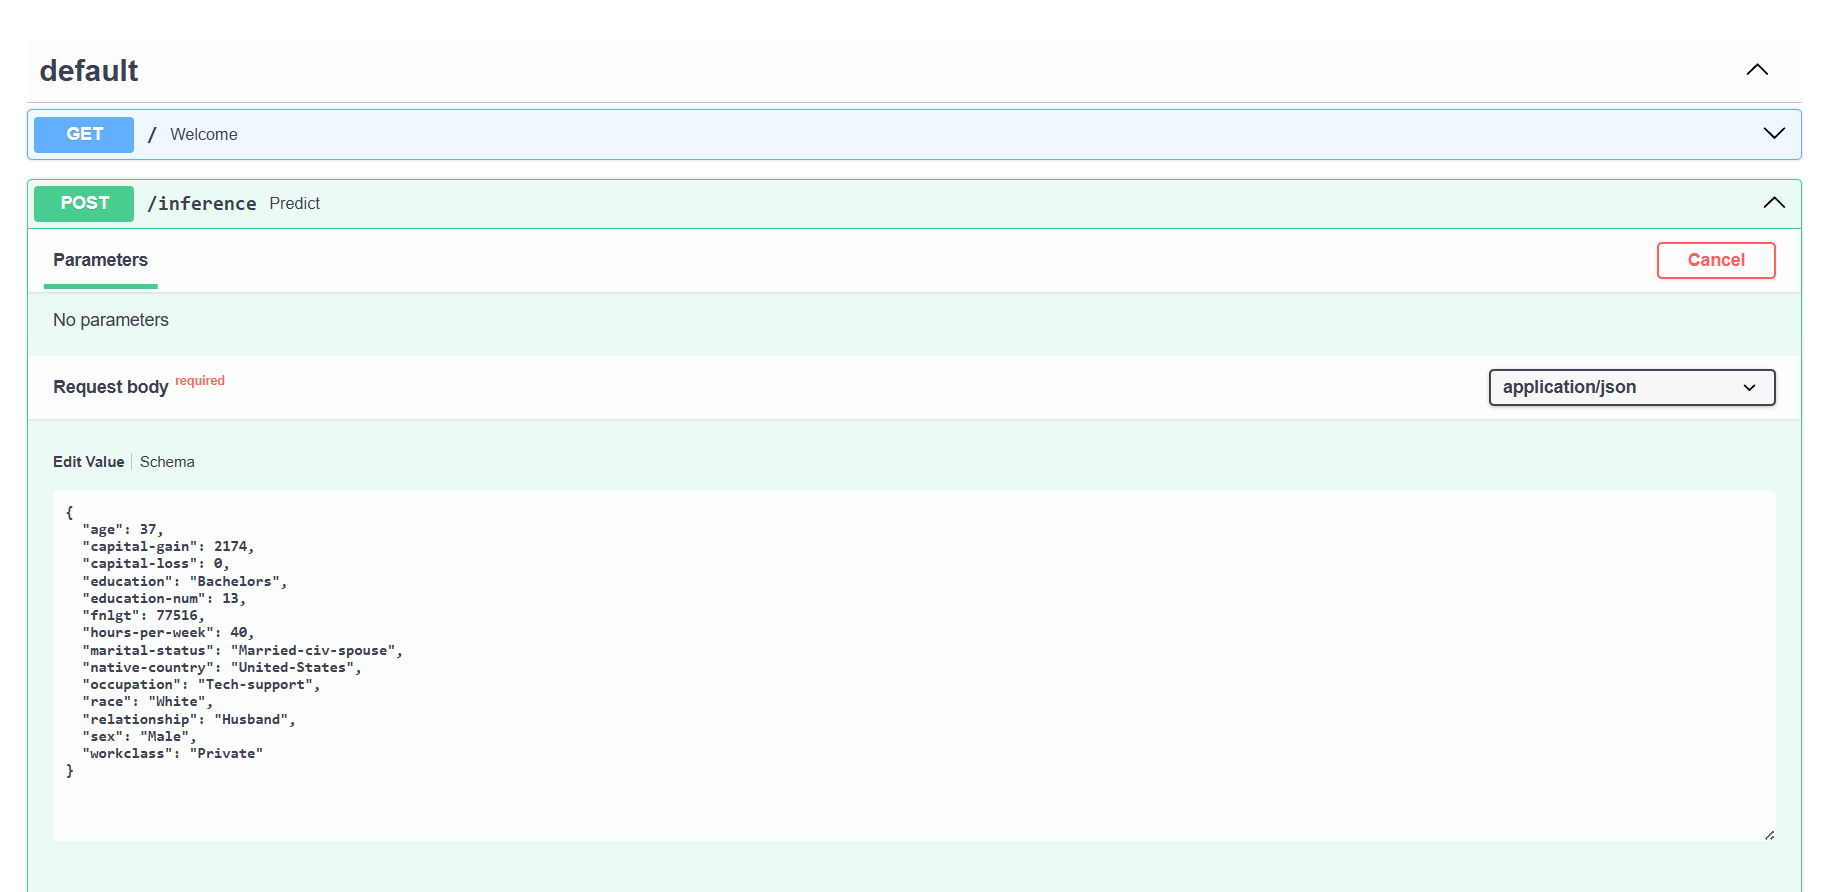
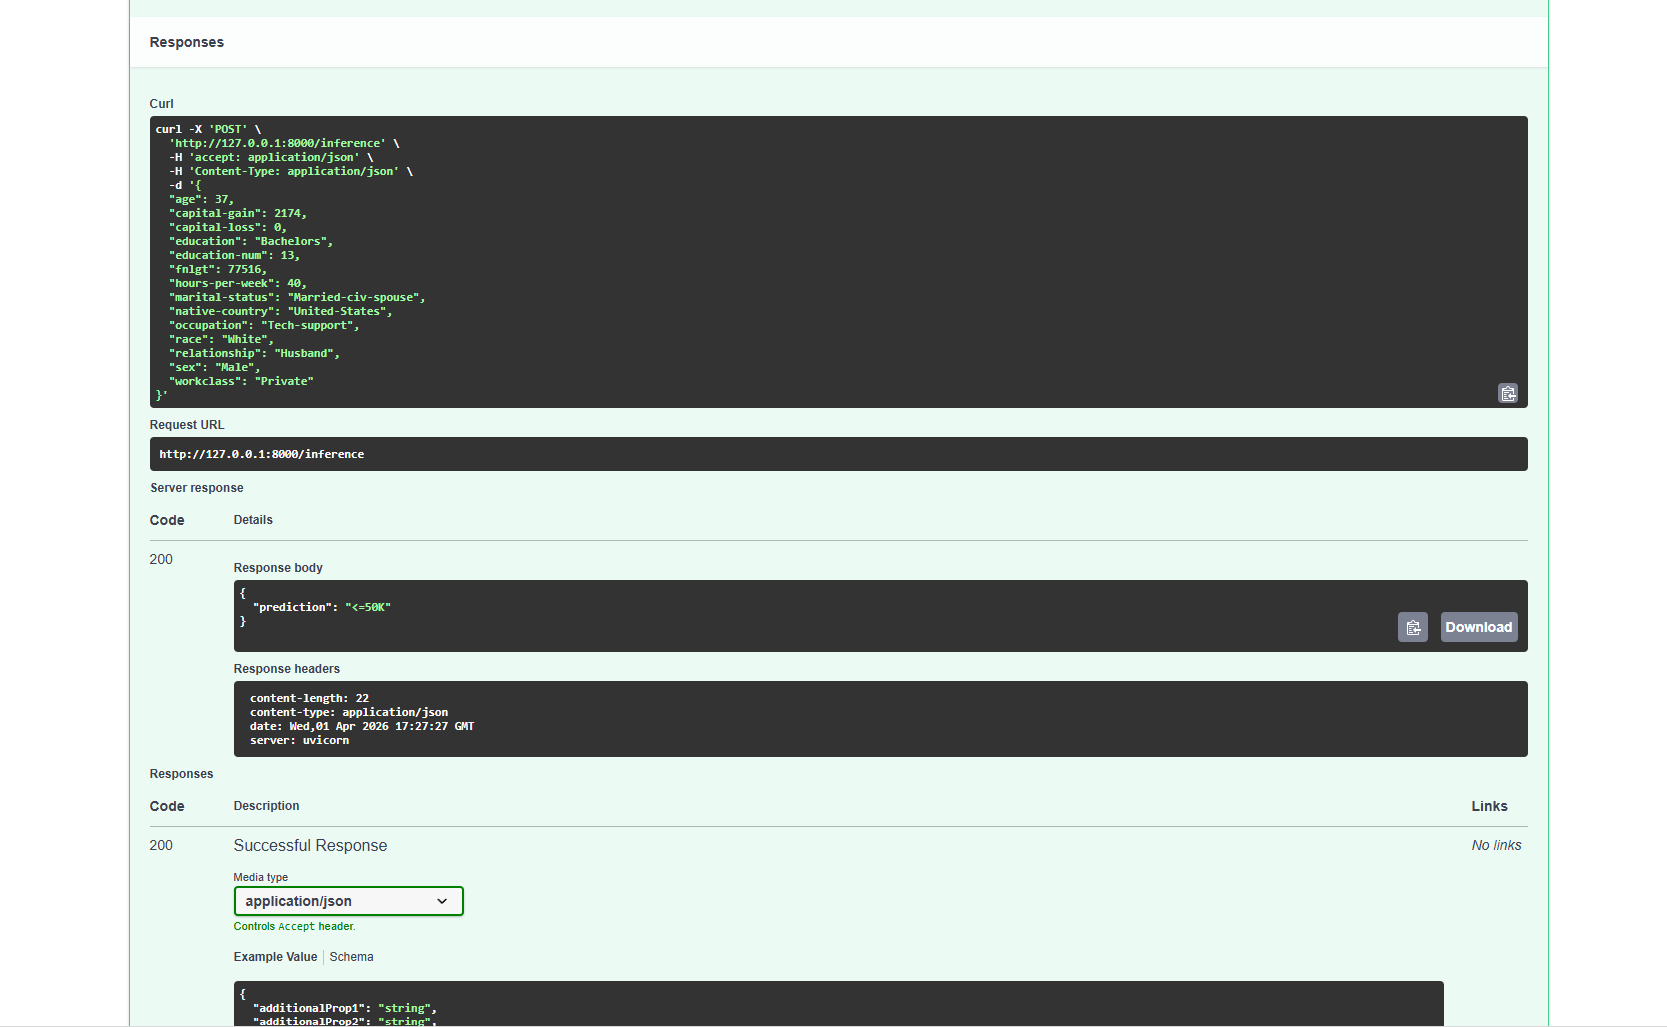
Finalize deployment evidence and project submission files

diff --git a/starter/README.md b/starter/README.md
@@ -1,83 +1,142 @@
-Working in a command line environment is recommended for ease of use with git and dvc. If on Windows, WSL1 or 2 is recommended.
+# ML Model FastAPI Project
 
-# Environment Set up
-* **Option 1: Using pip and venv (Recommended)**
-    * Ensure you have Python 3.13 installed
-    * Create virtual environment: `python3.13 -m venv .venv`
-    * Activate environment: `source .venv/bin/activate` (On Windows: `.venv\Scripts\activate`)
-    * Install dependencies: `pip install -r requirements.txt`
+## 📌 Project Overview
 
-* **Option 2: Using conda**
-    * Download and install conda if you don't have it already.
-    * conda create -n [envname] "python=3.13" scikit-learn dvc pandas numpy pytest jupyter jupyterlab fastapi uvicorn pydantic httpx matplotlib seaborn -c conda-forge
-    * Install git either through conda ("conda install git") or through your CLI, e.g. sudo apt-get git.
+This project implements an end-to-end machine learning pipeline using the Census Income dataset.
 
-## Repositories
+It includes:
 
-* Create a directory for the project and initialize Git and DVC.
-   * As you work on the code, continually commit changes. Trained models you want to keep must be committed to DVC.
-* Connect your local Git repository to GitHub.
+* Data processing and model training
+* Model evaluation (including slice metrics)
+* REST API using FastAPI
+* CI pipeline with GitHub Actions
+* Deployment on Heroku
 
-## Set up S3
+---
 
-* In your CLI environment install the<a href="https://docs.aws.amazon.com/cli/latest/userguide/cli-chap-install.html" target="_blank"> AWS CLI tool</a>.
-* In the navigation bar in the Udacity classroom select **Open AWS Gateway** and then click **Open AWS Console**. You will not need the AWS Access Key ID or Secret Access Key provided here.
-* From the Services drop down select S3 and then click Create bucket.
-* Give your bucket a name, the rest of the options can remain at their default.
+## 🔗 Links
 
-To use your new S3 bucket from the AWS CLI you will need to create an IAM user with the appropriate permissions. The full instructions can be found <a href="https://docs.aws.amazon.com/IAM/latest/UserGuide/id_users_create.html#id_users_create_console" target="_blank">here</a>, what follows is a paraphrasing:
+* GitHub Repository:
+  https://github.com/gardnerlingjia/ML_model_FASTAPI
 
-* Sign in to the IAM console <a href="https://console.aws.amazon.com/iam/" target="_blank">here</a> or from the Services drop down on the upper navigation bar.
-* In the left navigation bar select **Users**, then choose **Add user**.
-* Give the user a name and select **Programmatic access**.
-* In the permissions selector, search for S3 and give it **AmazonS3FullAccess**
-* Tags are optional and can be skipped.
-* After reviewing your choices, click create user. 
-* Configure your AWS CLI to use the Access key ID and Secret Access key.
+* Live API:
+  https://ml-fastapi-lingjia-5e077637aff3.herokuapp.com
 
-## GitHub Actions
+* API Docs (Swagger):
+  https://ml-fastapi-lingjia-5e077637aff3.herokuapp.com/docs
 
-* Setup GitHub Actions on your repository. You can use one of the pre-made GitHub Actions if at a minimum it runs pytest and flake8 on push and requires both to pass without error.
-   * Make sure you set up the GitHub Action to use Python 3.13 (same version as development).
-   * Note: Add flake8 to requirements.txt if you want to use it for linting: `pip install flake8`
-* Add your <a href="https://github.com/marketplace/actions/configure-aws-credentials-action-for-github-actions" target="_blank">AWS credentials to the Action</a>.
-* Set up <a href="https://github.com/iterative/setup-dvc" target="_blank">DVC in the action</a> and specify a command to `dvc pull`.
+---
 
-## Data
+## ⚙ Environment Setup
 
-* Download census.csv from the data folder in the starter repository.
-   * Information on the dataset can be found <a href="https://archive.ics.uci.edu/ml/datasets/census+income" target="_blank">here</a>.
-* Create a remote DVC remote pointing to your S3 bucket and commit the data.
-* This data is messy, try to open it in pandas and see what you get.
-* To clean it, use your favorite text editor to remove all spaces.
-* Commit this modified data to DVC under a new name (we often want to keep the raw data untouched but then can keep updating the cooked version).
+```bash
+python -m venv .venv
+.venv\Scripts\activate   # Windows
+pip install -r requirements.txt
+```
 
-## Model
+Python version used: **3.11**
 
-* Using the starter code, write a machine learning model that trains on the clean data and saves the model. Complete any function that has been started.
-* Write unit tests for at least 3 functions in the model code.
-* Write a function that outputs the performance of the model on slices of the data.
-   * Suggestion: for simplicity, the function can just output the performance on slices of just the categorical features.
-* Write a model card using the provided template.
+---
 
-## API Creation
+## 🤖 Model
 
-* Create a RESTful API using FastAPI this must implement:
-   * GET on the root giving a welcome message.
-   * POST that does model inference.
-   * Type hinting must be used.
-   * Use a Pydantic model to ingest the body from POST. This model should contain an example.
-    * Hint: the data has names with hyphens and Python does not allow those as variable names. Do not modify the column names in the csv and instead use the functionality of FastAPI/Pydantic/etc to deal with this.
-* Write 3 unit tests to test the API (one for the GET and two for POST, one that tests each prediction).
+* Algorithm: Random Forest Classifier
+* Framework: scikit-learn
+* Task: Predict income (>50K or <=50K)
 
-## API Deployment
+---
 
-* Create a free Heroku account (for the next steps you can either use the web GUI or download the Heroku CLI).
-* Create a new app and have it deployed from your GitHub repository.
-   * Enable automatic deployments that only deploy if your continuous integration passes.
-   * Hint: think about how paths will differ in your local environment vs. on Heroku.
-   * Hint: development in Python is fast! But how fast you can iterate slows down if you rely on your CI/CD to fail before fixing an issue. I like to run flake8 locally before I commit changes.
-   * Note: Install flake8 separately if needed: `pip install flake8`
-* Set up DVC on Heroku using the instructions contained in the starter directory.
-* Set up access to AWS on Heroku, if using the CLI: `heroku config:set AWS_ACCESS_KEY_ID=xxx AWS_SECRET_ACCESS_KEY=yyy`
-* Write a script that uses the requests module to do one POST on your live API.
+## 📊 Model Evaluation
+
+Metrics used:
+
+* Precision
+* Recall
+* F1 Score
+
+Additionally:
+
+* Slice-based evaluation implemented
+* Output saved to `slice_output.txt`
+
+---
+
+## 🚀 API
+
+### GET `/`
+
+Returns welcome message
+
+### POST `/inference`
+
+Performs prediction
+
+Example request:
+
+```json
+{
+  "age": 37,
+  "workclass": "Private",
+  "fnlgt": 77516,
+  "education": "Bachelors",
+  "education-num": 13,
+  "marital-status": "Married-civ-spouse",
+  "occupation": "Tech-support",
+  "relationship": "Husband",
+  "race": "White",
+  "sex": "Male",
+  "capital-gain": 2174,
+  "capital-loss": 0,
+  "hours-per-week": 40,
+  "native-country": "United-States"
+}
+```
+
+---
+
+## 🧪 Testing
+
+* Unit tests implemented using pytest
+* Tests include:
+
+  * Model functions
+  * API endpoints (GET + POST for both prediction outcomes)
+
+---
+
+## 🔄 Continuous Integration
+
+* GitHub Actions pipeline runs:
+
+  * `flake8`
+  * `pytest`
+
+✔ All checks passing
+
+---
+
+## 📸 Screenshots
+
+* `example.png` → FastAPI docs with example request
+* `continuous_integration.png` → CI pipeline passing
+
+---
+
+## 📁 Project Structure
+
+```
+starter/
+  ├── starter/
+  │   ├── ml/
+  │   ├── train_model.py
+  │   └── main.py
+  ├── test_main.py
+  └── test_model.py
+```
+
+---
+
+## ⚠ Notes
+
+This project is for educational purposes and not intended for production use without further validation and fairness analysis.
